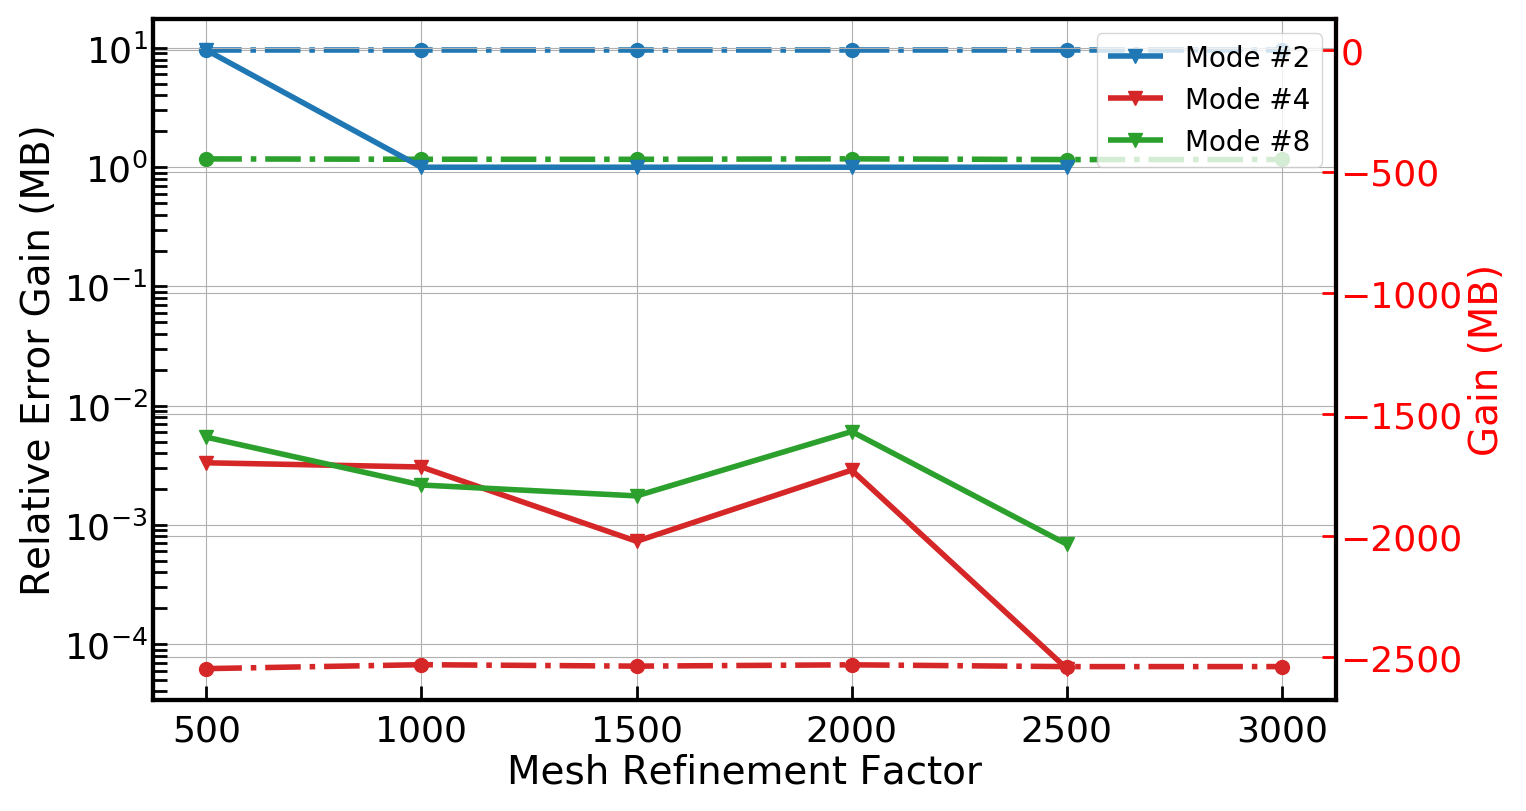
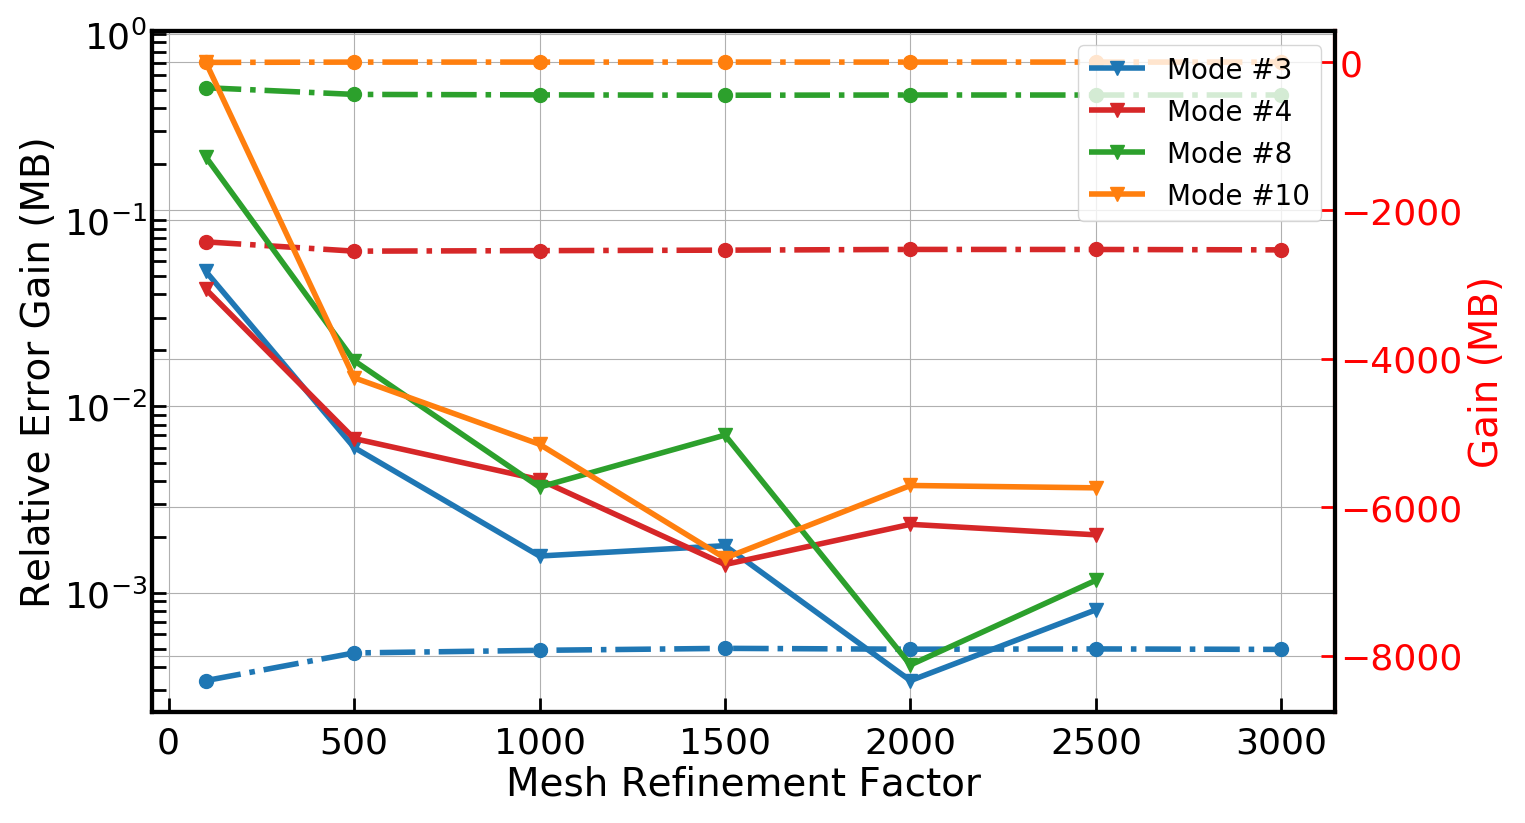
Picking correct mode for convergence study.

diff --git a/tutorials/simo-tut_05-convergence_study.py b/tutorials/simo-tut_05-convergence_study.py
@@ -37,10 +37,9 @@ AC_ival = 'All'
 
 prefix_str = 'tut_05-'
 
-nu_lcs = 6
-lc_bkg_list = 4*np.ones(nu_lcs)
-lc_list = np.linspace(5e2,3e3,nu_lcs)
-x_axis = lc_bkg_list
+nu_lcs = 7
+lc_bkg_list = 8*np.ones(nu_lcs)
+lc_list = [100,500,1000,1500,2000,2500,3000]
 x_axis = lc_list
 conv_list = []
 time_list = []
@@ -75,7 +74,7 @@ for i_lc, lc_ref in enumerate(lc_list):
 
 # It is crucial that you preselect modes with significant gain!
 # Otherwise you will observe large relative errors similar to dividing by zero.
-rel_modes = [2,4,8]
+rel_modes = [3,4,8,10]
 # If you do not know the mode numbers of the significant AC modes you may wish to simply plot them all
 # by uncommenting the line below and check if the modes with large gain have low relative errors.
 # rel_modes = np.linspace(0,num_modes_AC-1,num_modes_AC)
